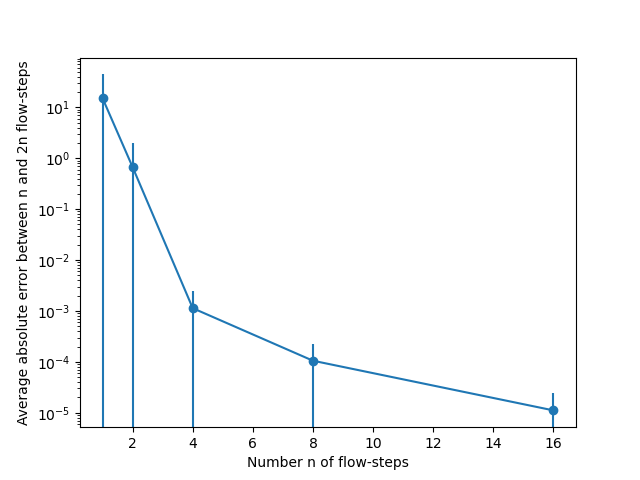
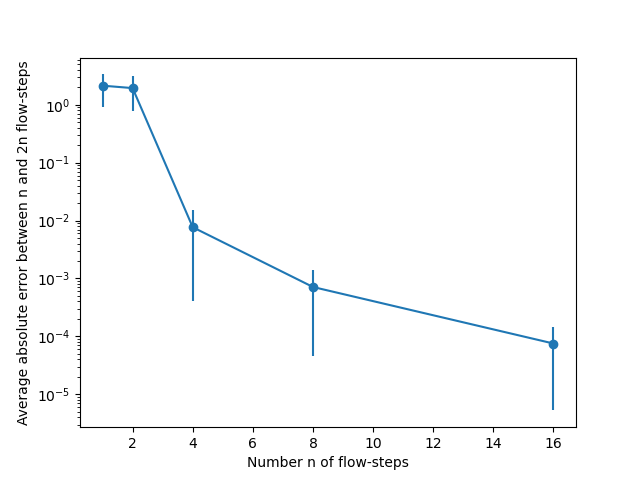
some flow testing plots mainly

diff --git a/zeugs/measurements.py b/zeugs/measurements.py
@@ -85,6 +85,13 @@ def radial_multiplicities(ns : int) -> list[int]:
 
 
 
+def radial_separations(ns : int) -> list[float]:
+    '''list of all reachable distances r on the lattice.'''
+
+    return [r2**.5 for r2 in radial_multiplicities(ns) if r2 != 0]
+
+
+
 
 def make_distance_corr_arrays(radial_corrs : list, normalize : bool) -> tuple[list, list]:
     '''Takes a list where the index corresponds to s^2.
@@ -189,6 +196,7 @@ if __name__ == '__main__':
         file = lambda ln: Path('outputs') / 'flow_err_test' / f'flow_ln={ln}.txt'
 
 
+
         # compute flows for various stepsizes
         for ln in range(max_log_steps + 1):
             if file(ln).exists(): continue
@@ -204,55 +212,74 @@ if __name__ == '__main__':
             file(ln).write_text(out)
 
 
+
         # extract final flowtime measurement for each stepsize ln
         finalmeas_for_ln = [parse_flow_output(file(ln).read_text())[-1] for ln in range(max_log_steps + 1)]
-        number_t_r2 = len(finalmeas_for_ln[0].q_corrs) * len(finalmeas_for_ln[0].q_corrs[0])
 
-        assert number_t_r2 == (nt//2) * (3*(ns//2)**2 + 1)
+        assert len(finalmeas_for_ln[0].q_corrs) == (nt//2)
+        assert len(finalmeas_for_ln[0].q_corrs[0]) == (3*(ns//2)**2 + 1)
         for ln in range(max_log_steps+1):
             assert finalmeas_for_ln[ln].flow_time == radius_to_flowtime(rf_max, nt)
+
 
         
         # extract G(s) data series for each ln and each tau
         corrsdist_ln_tau = []
         for meas in finalmeas_for_ln:
-            corrsdist_ln_tau.append([ make_distance_corr_arrays(corrs_r2, False)[1]
+            corrsdist_ln_tau.append([ make_distance_corr_arrays(corrs_r2, False)[1]     # calling make_dist... repeatedly could be made much faster
                                       for corrs_r2 in meas.q_corrs ])
 
 
-        # compute average difference of correlators between two neighbooring stepsizes
-        number_t_r = len(corrsdist_ln_tau[0]) * len(corrsdist_ln_tau[0][0])
-        print(len(corrsdist_ln_tau[0]), len(corrsdist_ln_tau[0][0]))
-        diff_for_ln    = []    # ln's elements is diff between ln and ln+1
+
+        # ln's elements is diff between ln and ln+1
+        diff_for_ln    = []    
         differr_for_ln = []   
 
+
+        # compute average difference of correlators C(t,r) between two different stepsizes
         for ln in range(max_log_steps):
-            diff = 0
+            sq_diff_vals = []
+
             for tslice0, tslice1 in zip(corrsdist_ln_tau[ln], corrsdist_ln_tau[ln+1]):
                 for corr0, corr1 in zip(tslice0, tslice1):
-                    diff += abs(corr0 - corr1)
-            diff_for_ln.append(diff / number_t_r)
+                    mid = (corr0 + corr1) / 2
+                    sq_diff_vals.append( (corr0 - corr1)**2 )
 
-            differr = 0
-            for tslice0, tslice1 in zip(corrsdist_ln_tau[ln], corrsdist_ln_tau[ln+1]):
-                for corr0, corr1 in zip(tslice0, tslice1):
-                    differr += (abs(corr0 - corr1) - diff_for_ln[ln])**2
-            differr_for_ln.append(np.sqrt(differr / (number_t_r-1)))
+            mean_sq_diff      = sum(sq_diff_vals[:100]) / len(sq_diff_vals[:100])
+            root_mean_sq_diff = np.sqrt(mean_sq_diff)
+            diff_for_ln.append(root_mean_sq_diff)
+
+            # do variance...
+            ...
 
 
-        # plot the stuff
-        plt.errorbar(
-            x      = [2**ln for ln in range(max_log_steps)],
-            y      = diff_for_ln,
-            yerr   = differr_for_ln,
-            marker = 'o',
-        )
-        # plt.ylim(0, diff_for_ln[1] * 1.5)
-        plt.yscale('log')
-        plt.xlabel('Number n of flow-steps')
-        plt.ylabel('Average absolute error between n and 2n flow-steps')
-        plt.savefig('plot_flow_wilson_error.png')
 
+        # plot the errors
+        if 1:
+            plt.errorbar(
+                x      = [2**ln for ln in range(max_log_steps)],
+                y      = diff_for_ln,
+                # yerr   = differr_for_ln,
+                marker = 'o',
+            )
+            # plt.ylim(0, diff_for_ln[1] * 1.5)
+            plt.yscale('log')
+            plt.xlabel('Number n of flow-steps')
+            plt.ylabel('Average absolute error between n and 2n flow-steps')
+            plt.savefig('plots/plot_flow_wilson_error.png')
+
+
+        # plot some correlators
+        if 0:
+            tau = 3
+            ln0, ln1 = max_log_steps-1, max_log_steps
+            r_vals = radial_separations(ns)[:100]
+            plt.scatter(r_vals, corrsdist_ln_tau[ln0][tau][:100], s=0.3, label=f'{tau=}, ln={ln0}')
+            plt.scatter(r_vals, corrsdist_ln_tau[ln1][tau][:100], s=0.3, label=f'{tau=}, ln={ln1}')
+            plt.xlabel('radial separation r')
+            plt.ylabel('C(tau,r)')
+            plt.legend()
+            plt.savefig('plots/plot_some_corrs_stepsizes.png')
 
 
 
